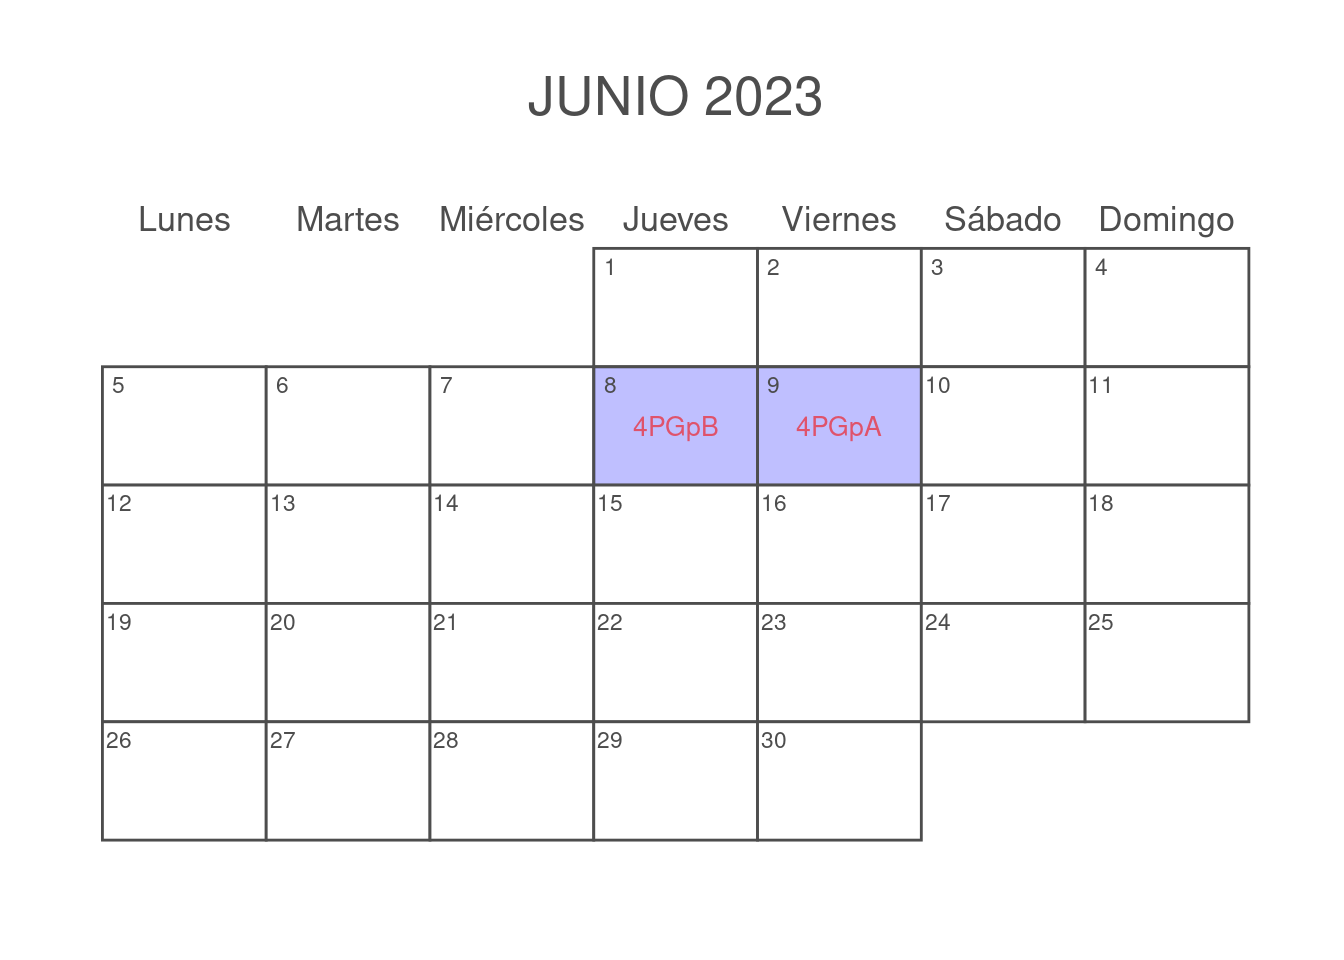
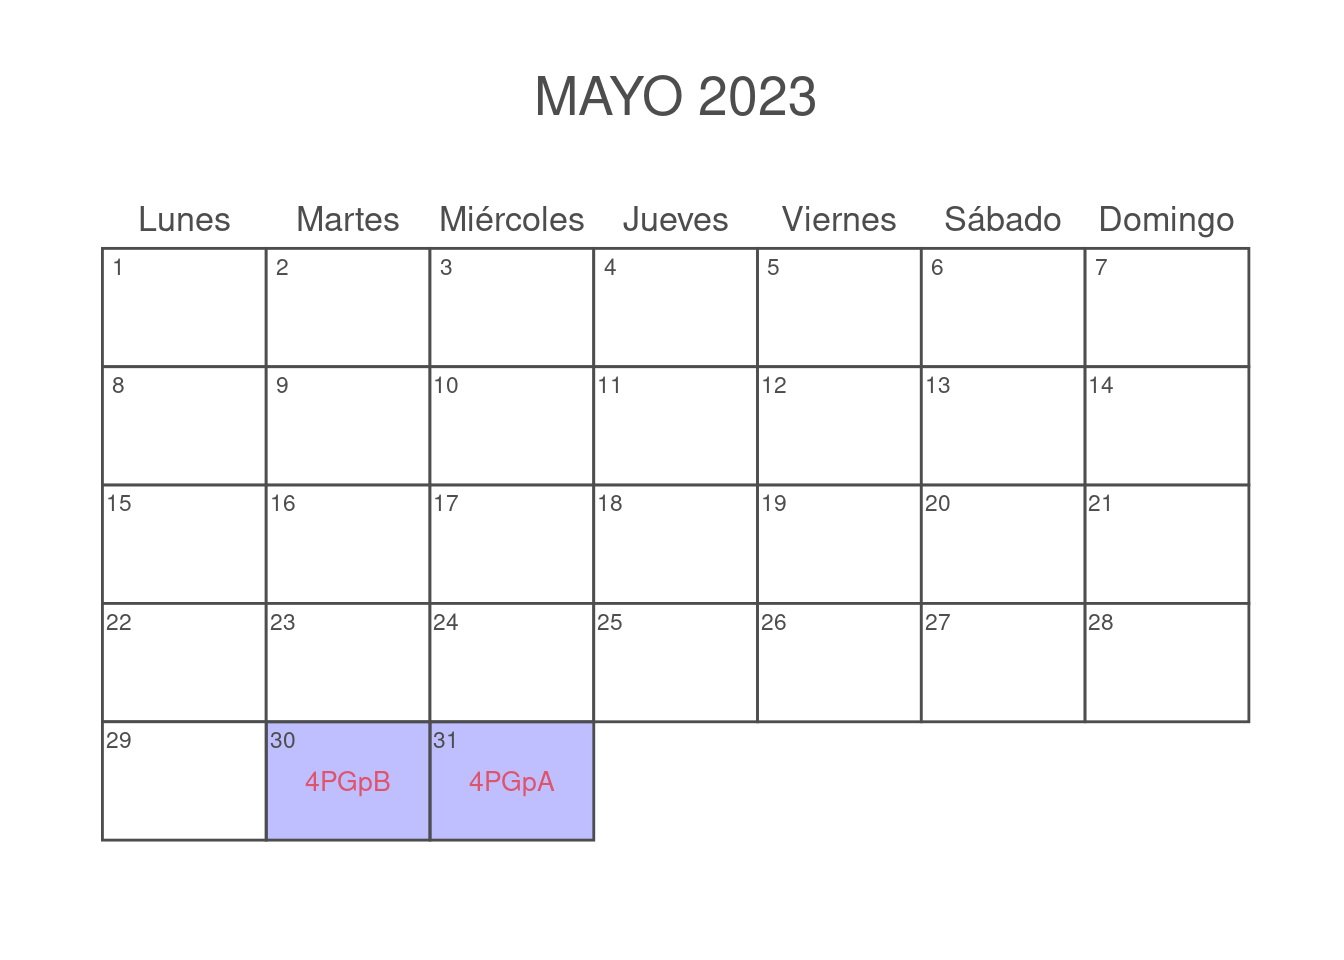
LunesCambio2

diff --git a/docs/index.html b/docs/index.html
@@ -23,7 +23,7 @@
 <meta name="author" content="Carlos Andrés Escobar Guerra - Juan Alberto Arias Quiceno - John Jairo Estrada Alvarez" />
 
 
-<meta name="date" content="2023-01-20" />
+<meta name="date" content="2023-01-23" />
 
   <meta name="viewport" content="width=device-width, initial-scale=1" />
   <meta name="apple-mobile-web-app-capable" content="yes" />
@@ -560,7 +560,7 @@
 <div id="header">
 <h1 class="title">Curso básico de Matemáticas Uno</h1>
 <p class="author"><em>Carlos Andrés Escobar Guerra - Juan Alberto Arias Quiceno - John Jairo Estrada Alvarez</em></p>
-<p class="date"><em>2023-01-20</em></p>
+<p class="date"><em>2023-01-23</em></p>
 </div>
 <div id="prerrequisitos" class="section level1 hasAnchor" number="1">
 <h1><span class="header-section-number">Capítulo 1</span> Prerrequisitos<a href="index.html#prerrequisitos" class="anchor-section" aria-label="Anchor link to header"></a></h1>
@@ -611,8 +611,8 @@ según se avanza en el desarrollo temático del curso.</p></li>
 <ul>
 <li><p>Primer parcial <strong>Presencial</strong> (25 <span class="math inline">\(\%\)</span>) - <strong>Fecha: Viernes <span class="math inline">\(24\)</span> de Febrero</strong></p></li>
 <li><p>Segundo Parcial <strong>Presencial</strong> (25 <span class="math inline">\(\%\)</span>) - <strong>Fecha: Viernes <span class="math inline">\(31\)</span> de Marzo</strong></p></li>
-<li><p>Tercer Parcial <strong>Presencial</strong> (25 <span class="math inline">\(\%\)</span>) - <strong>Fecha: Viernes <span class="math inline">\(5\)</span> de Mayo</strong></p></li>
-<li><p>Cuarto Parcial <strong>Presencial</strong> (ó Parcial Final) (25 <span class="math inline">\(\%\)</span>) - <strong>Fecha: Viernes <span class="math inline">\(9\)</span> de Junio</strong></p></li>
+<li><p>Tercer Parcial <strong>Presencial</strong> (25 <span class="math inline">\(\%\)</span>) - <strong>Fecha: Viernes <span class="math inline">\(28\)</span> de Abril</strong></p></li>
+<li><p>Cuarto Parcial <strong>Presencial</strong> (ó Parcial Final) (25 <span class="math inline">\(\%\)</span>) - <strong>Fecha: Viernes <span class="math inline">\(31\)</span> de Mayo</strong></p></li>
 </ul>
 </div>
 <div id="fechas-de-evaluación-grupo-b" class="section level2 hasAnchor" number="1.4">
@@ -620,8 +620,8 @@ según se avanza en el desarrollo temático del curso.</p></li>
 <ul>
 <li><p>Primer parcial <strong>Presencial</strong> (25 <span class="math inline">\(\%\)</span>) - <strong>Fecha: Jueves <span class="math inline">\(23\)</span> de Febrero</strong></p></li>
 <li><p>Segundo Parcial <strong>Presencial</strong> (25 <span class="math inline">\(\%\)</span>) - <strong>Fecha: Jueves <span class="math inline">\(30\)</span> de Marzo</strong></p></li>
-<li><p>Tercer Parcial <strong>Presencial</strong> (25 <span class="math inline">\(\%\)</span>) - <strong>Fecha: Jueves <span class="math inline">\(4\)</span> de Mayo</strong></p></li>
-<li><p>Cuarto Parcial <strong>Presencial</strong> (ó Parcial Final) (25 <span class="math inline">\(\%\)</span>) - <strong>Fecha: Jueves <span class="math inline">\(8\)</span> de Junio</strong></p></li>
+<li><p>Tercer Parcial <strong>Presencial</strong> (25 <span class="math inline">\(\%\)</span>) - <strong>Fecha: Jueves <span class="math inline">\(27\)</span> de Abril</strong></p></li>
+<li><p>Cuarto Parcial <strong>Presencial</strong> (ó Parcial Final) (25 <span class="math inline">\(\%\)</span>) - <strong>Fecha: Jueves <span class="math inline">\(30\)</span> de Mayo</strong></p></li>
 </ul>
 <!-- ### Talleres evaluativos -->
 <!-- * Primer Taller (5 $\%$) - **Fecha: Viernes $18$ de Febrero** -->
@@ -630,21 +630,21 @@ según se avanza en el desarrollo temático del curso.</p></li>
 <!-- * Cuarto Taller (5 $\%$) - **Fecha: Viernes $28$ de Mayo** -->
 <p><img src="LibroMateUnoSemestre01-2020_files/figure-html/unnamed-chunk-1-1.png" width="672" /></p>
 <p><img src="LibroMateUnoSemestre01-2020_files/figure-html/unnamed-chunk-2-1.png" width="672" /></p>
+<p><img src="LibroMateUnoSemestre01-2020_files/figure-html/unnamed-chunk-3-1.png" width="672" /></p>
+<p><img src="LibroMateUnoSemestre01-2020_files/figure-html/unnamed-chunk-4-1.png" width="672" /></p>
 <!-- ```{r echo=FALSE, message=FALSE, warning=FALSE} -->
 <!-- library(calendR) -->
 <!-- # calendR() -->
 <!-- # calendR(year = 2020, month =8) -->
-<!-- calendR(year = 2023, month = 04,        # Año y mes -->
+<!-- calendR(year = 2023, month = 06,        # Año y mes -->
 <!--         start = "M",                   # Empezar la semana en lunes -->
-<!--         text = c("Fec íímite del taller","3P-GrupoB","3P-GrupoA"), -->
-<!--         text.pos = c(22,28,29),       # Días en los que poner los textos -->
+<!--         text = c("4PGpB","4PGpA"), -->
+<!--         text.pos = c(8,9),       # Días en los que poner los textos -->
 <!--         text.size = 3.5,               # Tamaño de fuente de los textos -->
 <!--         text.col = 2, -->
-<!--         special.days =  c(22,28,29), -->
+<!--         special.days =  c(8,9), -->
 <!--         special.col = rgb(0, 0, 1,  alpha = 0.25),) -->
 <!-- ``` -->
-<p><img src="LibroMateUnoSemestre01-2020_files/figure-html/unnamed-chunk-3-1.png" width="672" /></p>
-<p><img src="LibroMateUnoSemestre01-2020_files/figure-html/unnamed-chunk-4-1.png" width="672" /></p>
 </div>
 <div id="video-motivacional" class="section level2 hasAnchor" number="1.5">
 <h2><span class="header-section-number">1.5</span> Video motivacional<a href="index.html#video-motivacional" class="anchor-section" aria-label="Anchor link to header"></a></h2>

diff --git a/docs/desarrollo-temático.html b/docs/desarrollo-temático.html
@@ -23,7 +23,7 @@
 <meta name="author" content="Carlos Andrés Escobar Guerra - Juan Alberto Arias Quiceno - John Jairo Estrada Alvarez" />
 
 
-<meta name="date" content="2023-01-20" />
+<meta name="date" content="2023-01-23" />
 
   <meta name="viewport" content="width=device-width, initial-scale=1" />
   <meta name="apple-mobile-web-app-capable" content="yes" />
